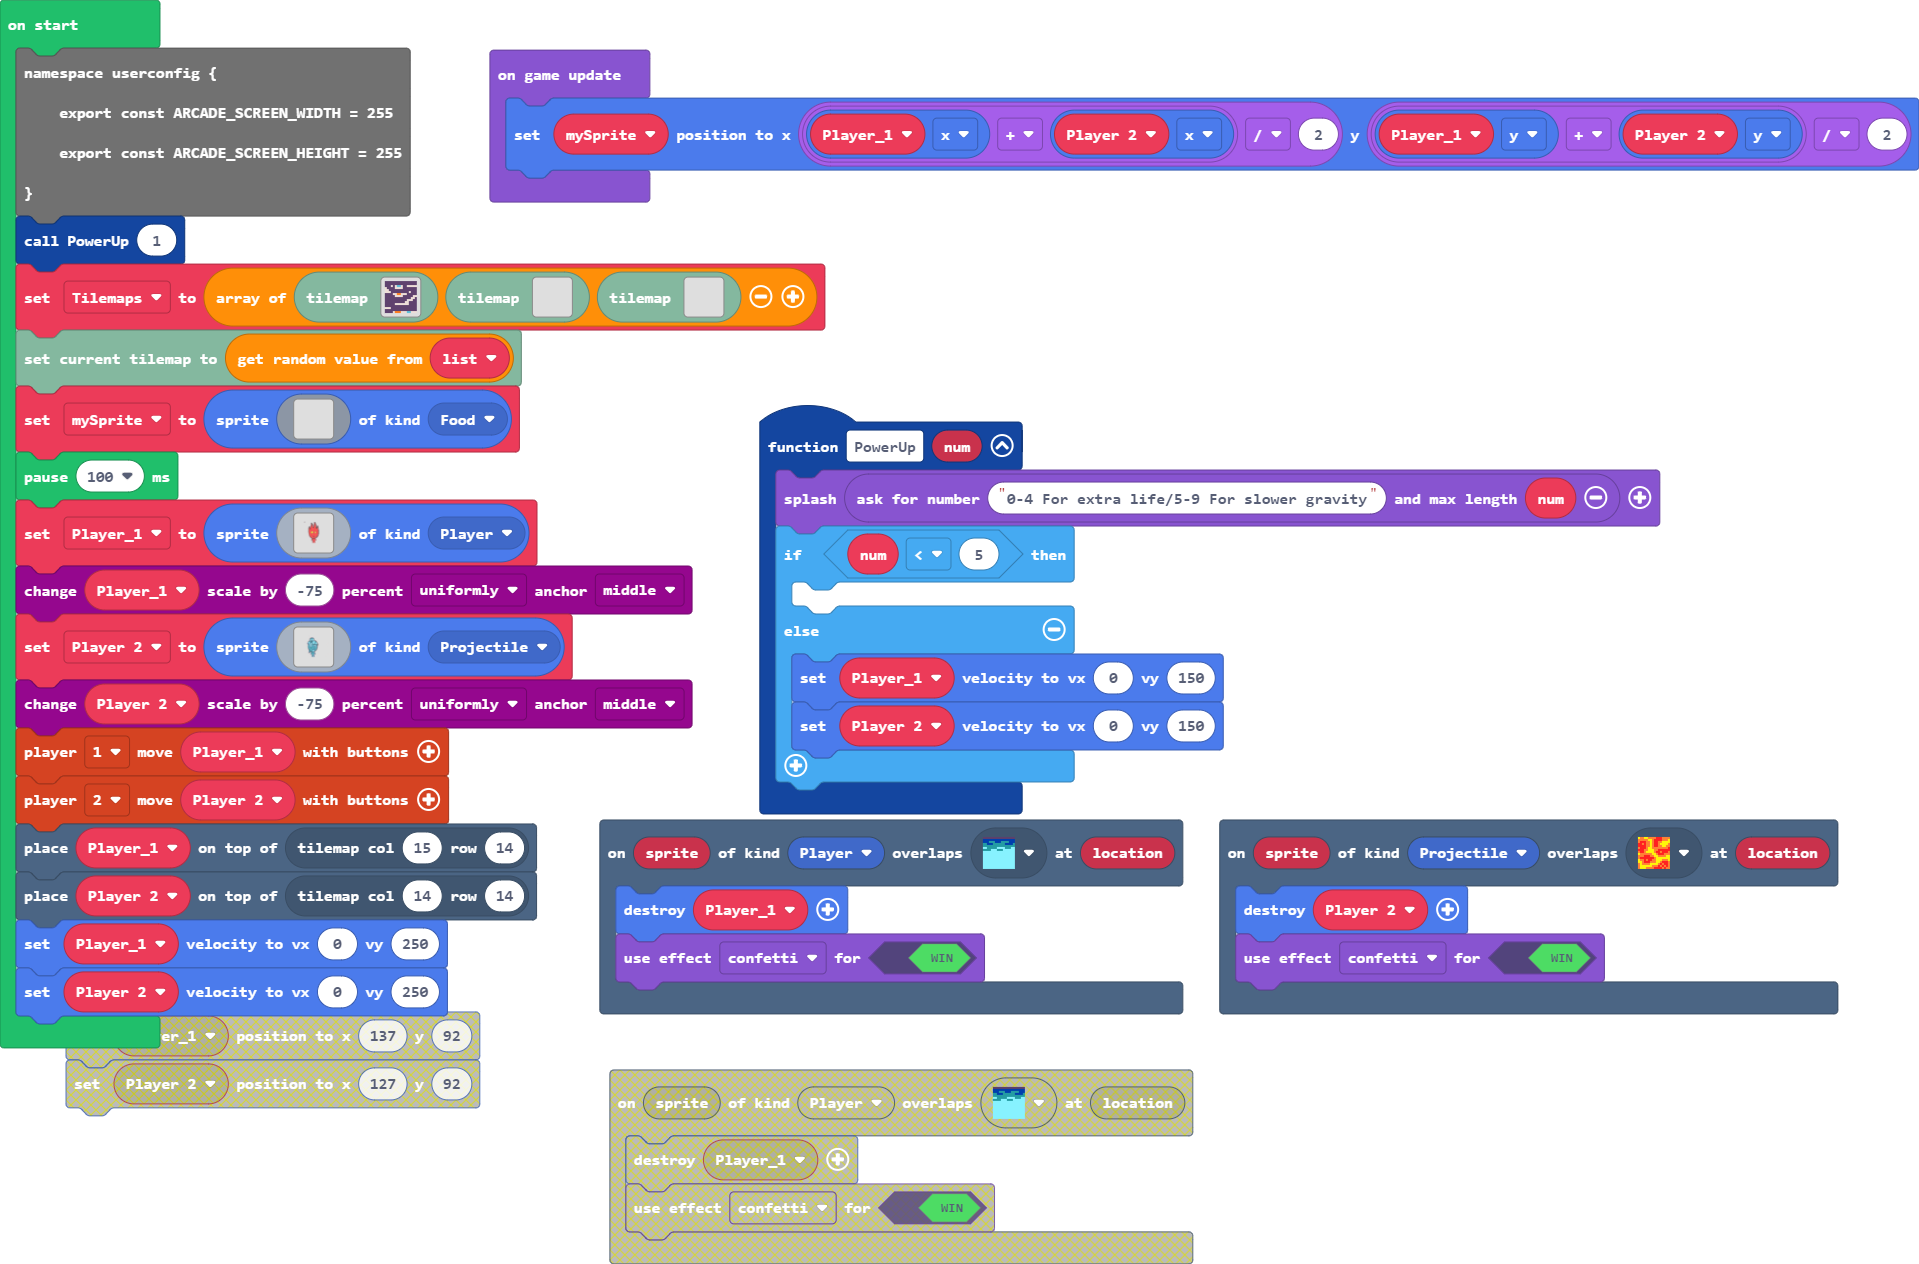
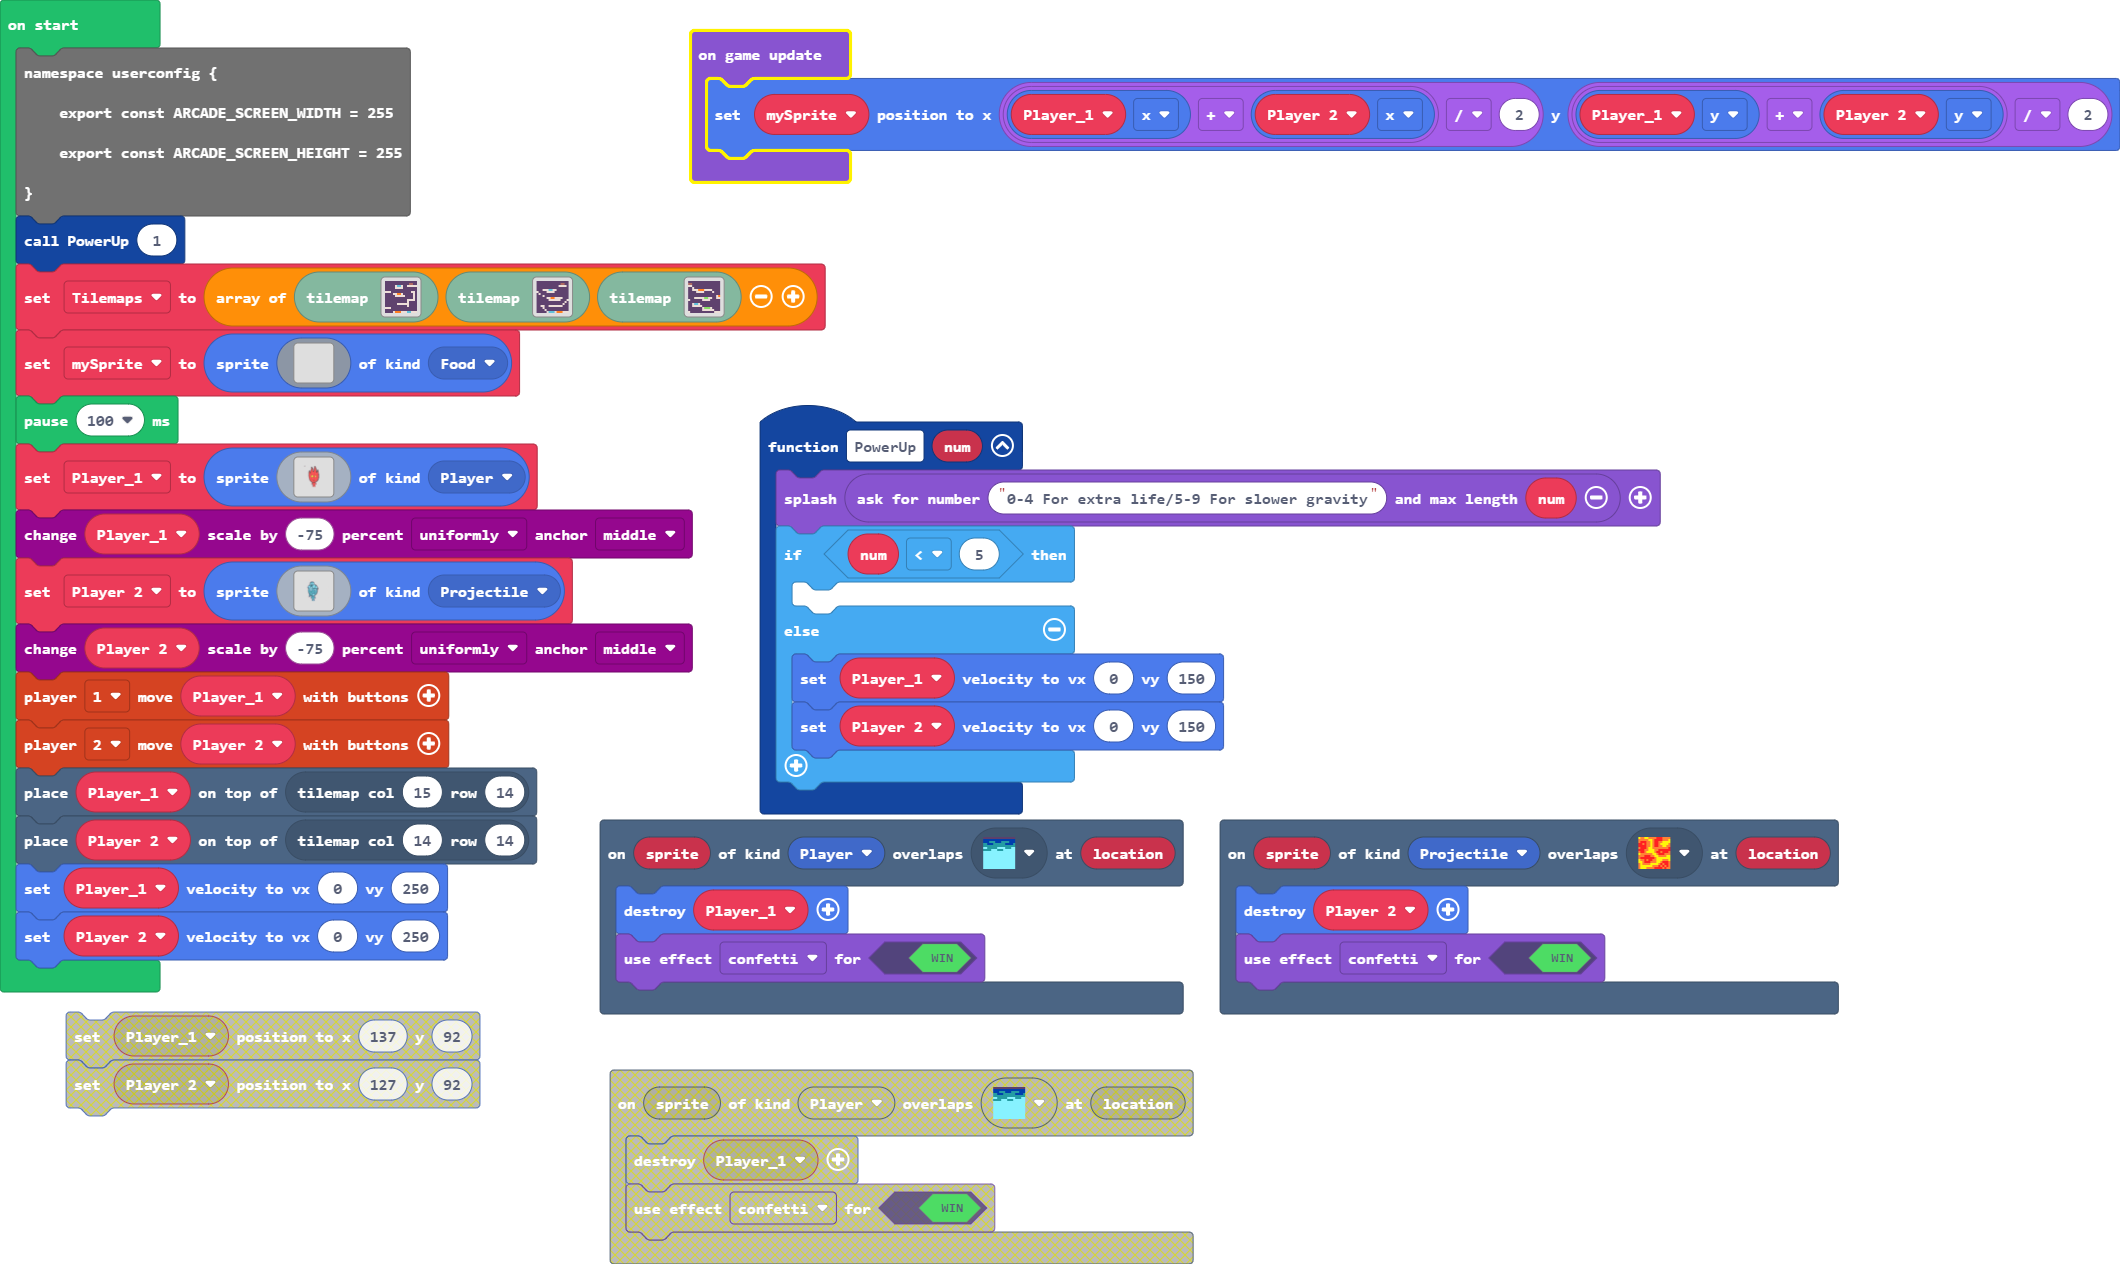
Update main.blocks, tilemap.g.jres, tilemap.g.ts

diff --git a/tilemap.g.ts b/tilemap.g.ts
@@ -160,6 +160,25 @@ namespace myTiles {
 . . . . . . . . . . . . . . . . 
 . . . . . . . . . . . . . . . . 
 `, [myTiles.transparency16], TileScale.Sixteen);
+            case "level11":
+            case "level11":return tiles.createTilemap(hex`1000100000000000000000000000000000000000000000000000000000000000000000000000000000000000000000000000000000000000000000000000000000000000000000000000000000000000000000000000000000000000000000000000000000000000000000000000000000000000000000000000000000000000000000000000000000000000000000000000000000000000000000000000000000000000000000000000000000000000000000000000000000000000000000000000000000000000000000000000000000000000000000000000000000000000000000000000000000000000000000000000000000000000000000000000000000000000`, img`
+. . . . . . . . . . . . . . . . 
+. . . . . . . . . . . . . . . . 
+. . . . . . . . . . . . . . . . 
+. . . . . . . . . . . . . . . . 
+. . . . . . . . . . . . . . . . 
+. . . . . . . . . . . . . . . . 
+. . . . . . . . . . . . . . . . 
+. . . . . . . . . . . . . . . . 
+. . . . . . . . . . . . . . . . 
+. . . . . . . . . . . . . . . . 
+. . . . . . . . . . . . . . . . 
+. . . . . . . . . . . . . . . . 
+. . . . . . . . . . . . . . . . 
+. . . . . . . . . . . . . . . . 
+. . . . . . . . . . . . . . . . 
+. . . . . . . . . . . . . . . . 
+`, [myTiles.transparency16], TileScale.Sixteen);
         }
         return null;
     })
